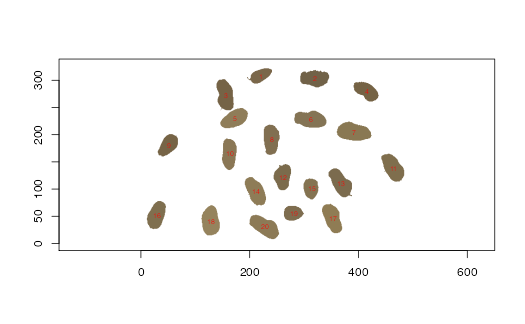
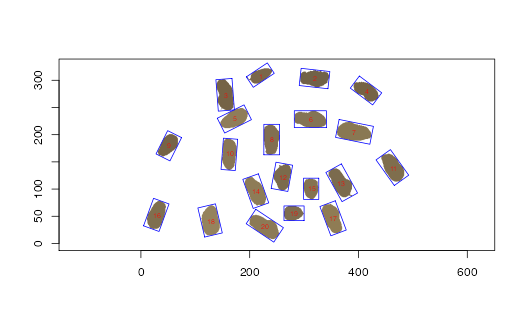
rebuilt pkgdown site

diff --git a/docs/articles/Rigatoni.html b/docs/articles/Rigatoni.html
@@ -31,7 +31,7 @@
       </button>
       <span class="navbar-brand">
         <a class="navbar-link" href="../index.html">Rigatoni</a>
-        <span class="version label label-default" data-toggle="tooltip" data-placement="bottom" title="Released version">0.3.0</span>
+        <span class="version label label-default" data-toggle="tooltip" data-placement="bottom" title="Released version">0.4.0</span>
       </span>
     </div>
 
@@ -77,6 +77,7 @@
 <div class="sourceCode" id="cb1"><pre class="downlit sourceCode r">
 <code class="sourceCode R"><span class="kw"><a href="https://rdrr.io/r/base/library.html">library</a></span><span class="op">(</span><span class="va">Rigatoni</span><span class="op">)</span>
 <span class="co">#&gt; Le chargement a nécessité le package : data.table</span>
+<span class="co">#&gt; Warning: le package 'data.table' a été compilé avec la version R 3.6.2</span>
 <span class="co">#&gt; Le chargement a nécessité le package : EBImage</span>
 <span class="co">#&gt; </span>
 <span class="co">#&gt; Attachement du package : 'EBImage'</span>
@@ -97,7 +98,7 @@
 <p><img src="Rigatoni_files/figure-html/unnamed-chunk-3-1.png" width="700"></p>
 <p>The first thing to do is to get a range of color (hue) values for the background of the image that will be further used for applying a color threshold.</p>
 <div class="sourceCode" id="cb4"><pre class="downlit sourceCode r">
-<code class="sourceCode R"><span class="va">mythreshold</span> <span class="op">&lt;-</span> <span class="fu">get_huethr_values</span><span class="op">(</span><span class="va">img</span><span class="op">)</span>
+<code class="sourceCode R"><span class="va">mythreshold</span> <span class="op">&lt;-</span> <span class="fu"><a href="../reference/get_huethr_values.html">get_huethr_values</a></span><span class="op">(</span><span class="va">img</span><span class="op">)</span>
 <span class="va">mythreshold</span></code></pre></div>
 <p>The <code>get_huethr_values</code> function allows to click twice on the distribution. On the example below, the second peak represents the background. Click on both sides of the peak will return a vector of 2 values. <img src="Rigatoni_files/figure-html/unnamed-chunk-5-1.png" width="672" style="display: block; margin: auto;"></p>
 <pre><code>#&gt; [1] 60 90</code></pre>
@@ -108,25 +109,25 @@ The <code>minsize</code> and <code>maxsize</code> parameters allow to fix the mi
 <p>The object that is returned by the <code>krnel</code> function is of S3 class.. <code>krnel</code><br>
 It is a list with three components:</p>
 <ul>
-<li>features : a data.frame with as many rows as the number of detected features and description variables as returned by <code><a href="https://rdrr.io/pkg/EBImage/man/computeFeatures.html">EBImage::computeFeatures</a></code>
-</li>
-<li>contours : a list with as many elements as the number of detected features Each element is a matrix with the coordinates of each feature.</li>
-<li>params : a list with the analysis parameters. can be used for further plotting</li>
+<li><p>features : a data.frame with as many rows as the number of detected features and description variables as returned by <code><a href="https://rdrr.io/pkg/EBImage/man/computeFeatures.html">EBImage::computeFeatures</a></code>. It also includes bounding box width and height aka Feret min and max diameter.</p></li>
+<li><p>contours : a list with as many elements as the number of detected features Each element is a matrix with the coordinates of each feature.</p></li>
+<li><p>bbox : a list with as many elements as the number of detected features. Each element is a list with 4 components: <code>$pts</code> that contains the coordinates of each corner of the bounding box, <code>$width</code>, <code>$height</code>, and <code>$angle</code></p></li>
+<li><p>params : a list with the analysis parameters. can be used for further plotting</p></li>
 </ul>
 <p>The features of the <code>pods</code> object can be plotted with the plot function:</p>
 <div class="sourceCode" id="cb6"><pre class="downlit sourceCode r">
-<code class="sourceCode R"><span class="fu"><a href="https://rdrr.io/r/graphics/plot.html">plot</a></span><span class="op">(</span><span class="va">pods</span><span class="op">)</span></code></pre></div>
+<code class="sourceCode R"><span class="fu"><a href="https://rdrr.io/r/graphics/plot.html">plot</a></span><span class="op">(</span><span class="va">pods</span>, plot.bbox <span class="op">=</span> <span class="cn">T</span><span class="op">)</span></code></pre></div>
 <p><img src="Rigatoni_files/figure-html/unnamed-chunk-7-1.png" width="700" style="display: block; margin: auto;"></p>
 <p>We can see that object #11 is the merger of two pods that were not separated on the scanner.<br>
 This artecfactual object can be excluded by decreasing <code>maxsize</code>.<br>
 Let’s decrease it to 2000.</p>
 <p>We can also set <code>save.outline</code> to <code>TRUE</code> so that the analysed image will be saved in the same directory with detected objects outlines.</p>
 <div class="sourceCode" id="cb7"><pre class="downlit sourceCode r">
-<code class="sourceCode R"><span class="va">pods</span><span class="op">&lt;-</span><span class="fu"><a href="../reference/krnel.html">krnel</a></span><span class="op">(</span>img <span class="op">=</span> <span class="va">img</span>, resizw <span class="op">=</span> <span class="fl">500</span>, huethres <span class="op">=</span> <span class="va">mythreshold</span>, minsize <span class="op">=</span> <span class="fl">100</span>, maxsize <span class="op">=</span> <span class="fl">2000</span>, save.outline <span class="op">=</span> <span class="cn">T</span><span class="op">)</span></code></pre></div>
+<code class="sourceCode R"><span class="va">pods</span><span class="op">&lt;-</span><span class="fu"><a href="../reference/krnel.html">krnel</a></span><span class="op">(</span>img <span class="op">=</span> <span class="va">img</span>, resizw <span class="op">=</span> <span class="fl">500</span>, huethres <span class="op">=</span> <span class="va">mythreshold</span>, minsize <span class="op">=</span> <span class="fl">100</span>, maxsize <span class="op">=</span> <span class="fl">2000</span>, save.outline <span class="op">=</span> <span class="cn">T</span>, img.name <span class="op">=</span> <span class="st">"peanut_pod"</span><span class="op">)</span></code></pre></div>
 <p><img src="Rigatoni_files/figure-html/unnamed-chunk-9-1.png" width="700"></p>
 <p>The resulting <code>pods</code> object no longer contains the 2 non separated pods.</p>
 <div class="sourceCode" id="cb8"><pre class="downlit sourceCode r">
-<code class="sourceCode R"><span class="fu"><a href="https://rdrr.io/r/graphics/plot.html">plot</a></span><span class="op">(</span><span class="va">pods</span><span class="op">)</span></code></pre></div>
+<code class="sourceCode R"><span class="fu"><a href="https://rdrr.io/r/graphics/plot.html">plot</a></span><span class="op">(</span><span class="va">pods</span>, plot.bbox <span class="op">=</span> <span class="cn">T</span><span class="op">)</span></code></pre></div>
 <p><img src="Rigatoni_files/figure-html/unnamed-chunk-10-1.png" width="700" style="display: block; margin: auto;"></p>
 </div>
 <div id="working-on-many-images" class="section level2">

diff --git a/docs/reference/getMinBBox.html b/docs/reference/getMinBBox.html
@@ -6,7 +6,7 @@
 <meta http-equiv="X-UA-Compatible" content="IE=edge">
 <meta name="viewport" content="width=device-width, initial-scale=1.0">
 
-<title>Articles • Rigatoni</title>
+<title>Rotating calipers algorithm — getMinBBox • Rigatoni</title>
 
 <!-- jquery -->
 <script src="https://cdnjs.cloudflare.com/ajax/libs/jquery/3.4.1/jquery.min.js" integrity="sha256-CSXorXvZcTkaix6Yvo6HppcZGetbYMGWSFlBw8HfCJo=" crossorigin="anonymous"></script>
@@ -36,7 +36,13 @@
 
 
 
-<meta property="og:title" content="Articles" />
+<meta property="og:title" content="Rotating calipers algorithm — getMinBBox" />
+
+<meta property="og:description" content="Calculates the minimum oriented bounding box using the
+rotating calipers algorithm.
+This is the [flightplanning::getMinBBox] function from the flightplanning package &amp;lt;https://github.com/caiohamamura/flightplanning-R&amp;gt;" />
+
+
 
 
 
@@ -54,7 +60,7 @@
   </head>
 
   <body data-spy="scroll" data-target="#toc">
-    <div class="container template-article-index">
+    <div class="container template-reference-topic">
       <header>
       <div class="navbar navbar-default navbar-fixed-top" role="navigation">
   <div class="container">
@@ -67,7 +73,7 @@
       </button>
       <span class="navbar-brand">
         <a class="navbar-link" href="../index.html">Rigatoni</a>
-        <span class="version label label-default" data-toggle="tooltip" data-placement="bottom" title="Released version">0.4.0</span>
+        <span class="version label label-default" data-toggle="tooltip" data-placement="bottom" title="Released version">0.3.0</span>
       </span>
     </div>
 
@@ -102,18 +108,41 @@
 <div class="row">
   <div class="col-md-9 contents">
     <div class="page-header">
-      <h1>Articles</h1>
+    <h1>Rotating calipers algorithm</h1>
+    
+    <div class="hidden name"><code>getMinBBox.Rd</code></div>
     </div>
 
-    <div class="section ">
-      <h3>All vignettes</h3>
-      <p class="section-desc"></p>
-
-      <dl>
-        <dt><a href="Rigatoni.html">Rigatoni</a></dt>
-        <dd></dt>
-      </dl>
+    <div class="ref-description">
+    
+    <p>Calculates the minimum oriented bounding box using the
+rotating calipers algorithm.
+This is the [flightplanning::getMinBBox] function from the flightplanning package &lt;https://github.com/caiohamamura/flightplanning-R&gt;</p>
+    
     </div>
+
+    <pre class="usage"><span class='fu'>getMinBBox</span><span class='op'>(</span><span class='va'>xy</span><span class='op'>)</span></pre>
+    
+    <h2 class="hasAnchor" id="arguments"><a class="anchor" href="#arguments"></a>Arguments</h2>
+    <table class="ref-arguments">
+    <colgroup><col class="name" /><col class="desc" /></colgroup>
+    <tr>
+      <th>xy</th>
+      <td><p>A matrix of xy values from which to calculate the minimum oriented
+bounding box.</p></td>
+    </tr>
+    </table>
+    
+    <h2 class="hasAnchor" id="author"><a class="anchor" href="#author"></a>Author</h2>
+
+    <p>Caio Hamamura &lt;caiohamamura@gmail.com&gt;</p>
+    
+
+  </div>
+  <div class="col-md-3 hidden-xs hidden-sm" id="pkgdown-sidebar">
+    <nav id="toc" data-toggle="toc" class="sticky-top">
+      <h2 data-toc-skip>Contents</h2>
+    </nav>
   </div>
 </div>
 

diff --git a/docs/reference/get_huethr_values.html b/docs/reference/get_huethr_values.html
@@ -6,7 +6,7 @@
 <meta http-equiv="X-UA-Compatible" content="IE=edge">
 <meta name="viewport" content="width=device-width, initial-scale=1.0">
 
-<title>Articles • Rigatoni</title>
+<title>Plot the histogram of hue values of image to determine the hue range of the background — get_huethr_values • Rigatoni</title>
 
 <!-- jquery -->
 <script src="https://cdnjs.cloudflare.com/ajax/libs/jquery/3.4.1/jquery.min.js" integrity="sha256-CSXorXvZcTkaix6Yvo6HppcZGetbYMGWSFlBw8HfCJo=" crossorigin="anonymous"></script>
@@ -36,7 +36,11 @@
 
 
 
-<meta property="og:title" content="Articles" />
+<meta property="og:title" content="Plot the histogram of hue values of image to determine the hue range of the background — get_huethr_values" />
+
+<meta property="og:description" content="Plot the histogram of hue values of image to determine the hue range of the background" />
+
+
 
 
 
@@ -54,7 +58,7 @@
   </head>
 
   <body data-spy="scroll" data-target="#toc">
-    <div class="container template-article-index">
+    <div class="container template-reference-topic">
       <header>
       <div class="navbar navbar-default navbar-fixed-top" role="navigation">
   <div class="container">
@@ -102,18 +106,34 @@
 <div class="row">
   <div class="col-md-9 contents">
     <div class="page-header">
-      <h1>Articles</h1>
+    <h1>Plot the histogram of hue values of image to determine the hue range of the background</h1>
+    
+    <div class="hidden name"><code>get_huethr_values.Rd</code></div>
     </div>
 
-    <div class="section ">
-      <h3>All vignettes</h3>
-      <p class="section-desc"></p>
-
-      <dl>
-        <dt><a href="Rigatoni.html">Rigatoni</a></dt>
-        <dd></dt>
-      </dl>
+    <div class="ref-description">
+    
+    <p>Plot the histogram of hue values of image to determine the hue range of the background</p>
+    
     </div>
+
+    <pre class="usage"><span class='fu'>get_huethr_values</span><span class='op'>(</span><span class='va'>img</span>, return.values <span class='op'>=</span> <span class='cn'>TRUE</span><span class='op'>)</span></pre>
+    
+    <h2 class="hasAnchor" id="arguments"><a class="anchor" href="#arguments"></a>Arguments</h2>
+    <table class="ref-arguments">
+    <colgroup><col class="name" /><col class="desc" /></colgroup>
+    <tr>
+      <th>return.values</th>
+      <td></td>
+    </tr>
+    </table>
+    
+
+  </div>
+  <div class="col-md-3 hidden-xs hidden-sm" id="pkgdown-sidebar">
+    <nav id="toc" data-toggle="toc" class="sticky-top">
+      <h2 data-toc-skip>Contents</h2>
+    </nav>
   </div>
 </div>
 

diff --git a/docs/reference/krnel.html b/docs/reference/krnel.html
@@ -71,7 +71,7 @@
       </button>
       <span class="navbar-brand">
         <a class="navbar-link" href="../index.html">Rigatoni</a>
-        <span class="version label label-default" data-toggle="tooltip" data-placement="bottom" title="Released version">0.3.0</span>
+        <span class="version label label-default" data-toggle="tooltip" data-placement="bottom" title="Released version">0.4.0</span>
       </span>
     </div>
 
@@ -156,8 +156,9 @@
     <h2 class="hasAnchor" id="value"><a class="anchor" href="#value"></a>Value</h2>
 
     <p>the function will return krnel object, ie. a list with three components</p><ul>
-<li><p>features : a data.frame with as many rows as the number of detected features and description variables as returned by EBImage::computeFeatures</p></li>
-<li><p>contours : a list with as many elements as the number of detected features Each element is a matrix with the coordinates of each feature.</p></li>
+<li><p>features : a data.frame with as many rows as the number of detected features and description variables as returned by EBImage::computeFeatures. It also includes bounding box width and height aka Feret min and max diameter.</p></li>
+<li><p>contours : a list with as many elements as the number of detected features. Each element is a matrix with the coordinates of each feature.</p></li>
+<li><p>bbox : a list with as many elements as the number of detected features. Each element is a list with 4 components: $pts that contains the coordinates of each corner of the bounding box, $width, $height, and $angle</p></li>
 <li><p>params : a list with the analysis parameters. can be used for further plotting</p></li>
 </ul>
 

diff --git a/docs/reference/plot.krnel.html b/docs/reference/plot.krnel.html
@@ -71,7 +71,7 @@
       </button>
       <span class="navbar-brand">
         <a class="navbar-link" href="../index.html">Rigatoni</a>
-        <span class="version label label-default" data-toggle="tooltip" data-placement="bottom" title="Released version">0.3.0</span>
+        <span class="version label label-default" data-toggle="tooltip" data-placement="bottom" title="Released version">0.4.0</span>
       </span>
     </div>
 
@@ -119,7 +119,7 @@
 
     <pre class="usage"><span class='co'># S3 method for krnel</span>
 <span class='fu'><a href='https://rdrr.io/r/graphics/plot.html'>plot</a></span><span class='op'>(</span><span class='va'>x</span>, label <span class='op'>=</span> <span class='cn'>TRUE</span>, label.cex <span class='op'>=</span> <span class='fl'>0.6</span>,
-  label.col <span class='op'>=</span> <span class='st'>"red"</span><span class='op'>)</span></pre>
+  label.col <span class='op'>=</span> <span class='st'>"red"</span>, plot.bbox <span class='op'>=</span> <span class='cn'>T</span>, bbox.col <span class='op'>=</span> <span class='st'>"blue"</span><span class='op'>)</span></pre>
     
     <h2 class="hasAnchor" id="arguments"><a class="anchor" href="#arguments"></a>Arguments</h2>
     <table class="ref-arguments">
@@ -139,6 +139,14 @@
     <tr>
       <th>label.col</th>
       <td><p>label color</p></td>
+    </tr>
+    <tr>
+      <th>plot.bbox</th>
+      <td><p>whether to plot bounding boxes or not</p></td>
+    </tr>
+    <tr>
+      <th>bbox.col</th>
+      <td><p>color of bounding box</p></td>
     </tr>
     </table>
     

diff --git a/docs/reference/index.html b/docs/reference/index.html
@@ -67,7 +67,7 @@
       </button>
       <span class="navbar-brand">
         <a class="navbar-link" href="../index.html">Rigatoni</a>
-        <span class="version label label-default" data-toggle="tooltip" data-placement="bottom" title="Released version">0.3.0</span>
+        <span class="version label label-default" data-toggle="tooltip" data-placement="bottom" title="Released version">0.4.0</span>
       </span>
     </div>
 
@@ -128,15 +128,15 @@
       <tr>
         
         <td>
-          <p><code><a href="krnel.html">krnel()</a></code> </p>
+          <p><code><a href="get_huethr_values.html">get_huethr_values()</a></code> </p>
         </td>
-        <td><p>main function to identify features in an image</p></td>
+        <td><p>Plot the histogram of hue values of image to determine the hue range of the background</p></td>
       </tr><tr>
         
         <td>
-          <p><code><a href="krnellab.html">krnellab()</a></code> </p>
+          <p><code><a href="krnel.html">krnel()</a></code> </p>
         </td>
-        <td><p>lab space version of krnel function (experimental)</p></td>
+        <td><p>main function to identify features in an image</p></td>
       </tr><tr>
         
         <td>

diff --git a/docs/404.html b/docs/404.html
@@ -67,7 +67,7 @@
       </button>
       <span class="navbar-brand">
         <a class="navbar-link" href="index.html">Rigatoni</a>
-        <span class="version label label-default" data-toggle="tooltip" data-placement="bottom" title="Released version">0.3.0</span>
+        <span class="version label label-default" data-toggle="tooltip" data-placement="bottom" title="Released version">0.4.0</span>
       </span>
     </div>
 

diff --git a/docs/authors.html b/docs/authors.html
@@ -67,7 +67,7 @@
       </button>
       <span class="navbar-brand">
         <a class="navbar-link" href="index.html">Rigatoni</a>
-        <span class="version label label-default" data-toggle="tooltip" data-placement="bottom" title="Released version">0.3.0</span>
+        <span class="version label label-default" data-toggle="tooltip" data-placement="bottom" title="Released version">0.4.0</span>
       </span>
     </div>
 

diff --git a/docs/index.html b/docs/index.html
@@ -31,7 +31,7 @@
       </button>
       <span class="navbar-brand">
         <a class="navbar-link" href="index.html">Rigatoni</a>
-        <span class="version label label-default" data-toggle="tooltip" data-placement="bottom" title="Released version">0.3.0</span>
+        <span class="version label label-default" data-toggle="tooltip" data-placement="bottom" title="Released version">0.4.0</span>
       </span>
     </div>
 
